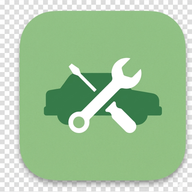
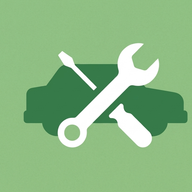
fix: popraw ikonę iOS - usuń wbudowane zaokrąglenia i cień
iOS sam stosuje rounded corners, nie potrzeba ich w pliku.
Dodano dedykowany apple-touch-icon.png 180x180.

diff --git a/index.html b/index.html
@@ -9,7 +9,7 @@
     <title>Serwis Auta</title>
     <link rel="manifest" href="manifest.json">
     <link rel="icon" type="image/png" sizes="32x32" href="icons/favicon-32.png">
-    <link rel="apple-touch-icon" href="icons/icon-192.png">
+    <link rel="apple-touch-icon" sizes="180x180" href="icons/apple-touch-icon.png">
     <link rel="stylesheet" href="style.css">
 </head>
 <body>

diff --git a/sw.js b/sw.js
@@ -1,5 +1,5 @@
 // Zmień tę wersję przy każdym deployu żeby wymusić odświeżenie cache
-const CACHE_VERSION = 'v16';
+const CACHE_VERSION = 'v17';
 const CACHE_NAME = `serwis-auta-${CACHE_VERSION}`;
 const ASSETS = [
     './',
